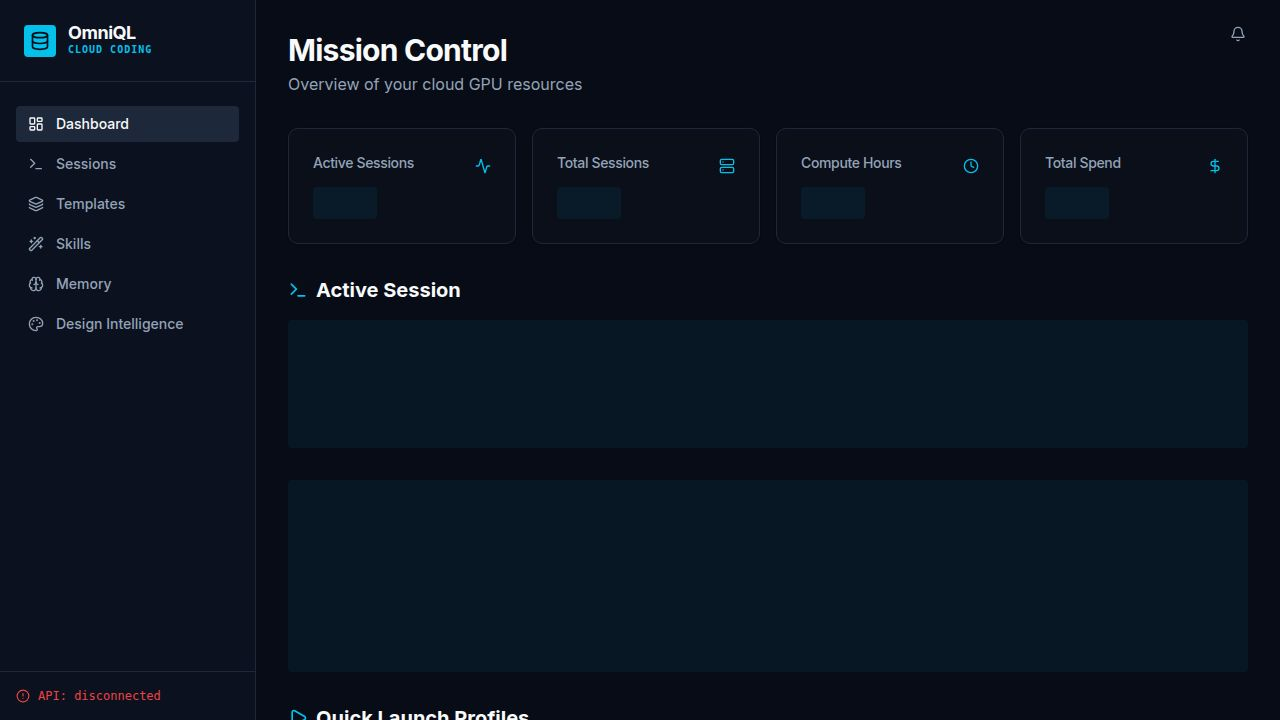
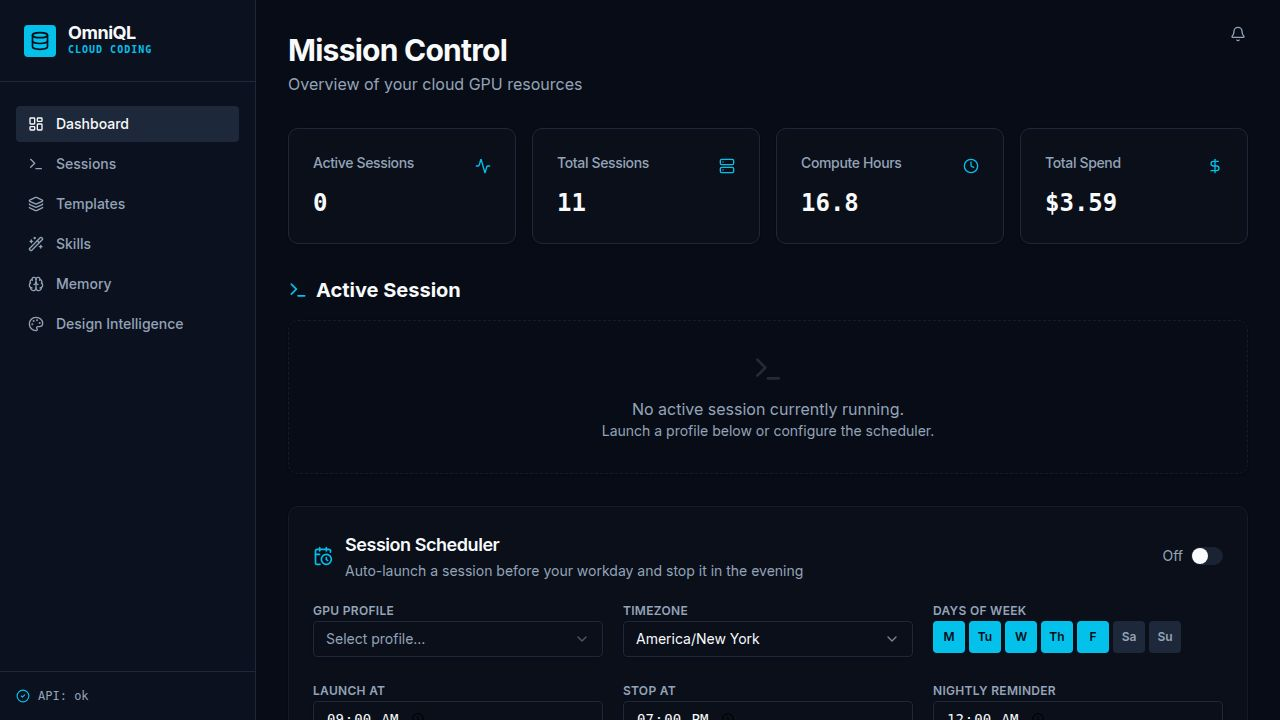
Task #119: Surface design context in the Skills panel
Added a "Design Context" collapsible sub-panel to the SmartSkillsTab in the session
cockpit. Developers can now see which design intelligence entries (color palettes,
typography rules, UX guidelines, etc.) were injected at session activation time.

## Changes

### DB schema (lib/db/src/schema/skills.ts)
- Added `designContextJson` (nullable jsonb) to `sessionSkillsTable` to persist the
  design context entries at activation time.

### DB migration (lib/db/migrations/0010_session_skills_design_context.sql)
- `ALTER TABLE session_skills ADD COLUMN IF NOT EXISTS design_context_json jsonb`
- Migration was applied via `drizzle-kit push` ✓

### API server (artifacts/api-server/src/services/skills-bundler.ts)
- Updated `recordSessionActivation` to write `compiled.designContext` into the new
  `designContextJson` column (null when no design context was injected).

### API route (artifacts/api-server/src/routes/skills.ts)
- `GET /sessions/:sessionId/skills` now reads `designContextJson` from the latest
  activation record and returns it as `designContext` in the response body.

### API client types (lib/api-client-react/src/generated/api.schemas.ts)
- Added `DesignContextEntry` interface (category, name, data, tags).
- Extended `SessionSkillsResponse` with optional `designContext?: DesignContextEntry[] | null`.
- Rebuilt package type declarations.

### Dashboard UI (artifacts/dashboard/src/pages/sessions/[id].tsx)
- Added `Palette` icon import from lucide-react.
[…]

diff --git a/artifacts/dashboard/src/pages/sessions/[id].tsx b/artifacts/dashboard/src/pages/sessions/[id].tsx
@@ -29,7 +29,7 @@ import { useQueryClient, useQuery } from "@tanstack/react-query";
 import { format, formatDistanceToNow } from "date-fns";
 import {
   Terminal, Clock, DollarSign, RefreshCw, StopCircle, HardDrive, ExternalLink, ArrowLeft, Brain, ChevronDown, ChevronRight, Radio, Search, X, AlertTriangle, RotateCcw, Users, Copy, Check, Eye, EyeOff, FolderOpen,
-  Wand2, ThumbsUp, ThumbsDown, Wrench, GitBranch, Loader2, CheckCircle2, XCircle, AlertCircle, DatabaseZap, Network, Target, Pencil,
+  Wand2, ThumbsUp, ThumbsDown, Wrench, GitBranch, Loader2, CheckCircle2, XCircle, AlertCircle, DatabaseZap, Network, Target, Pencil, Palette,
   Bell, BellOff, BellRing, MonitorSmartphone,
   // RotateCcw was used by the legacy disk-full retry button; the new BootTimeline owns that CTA.
 } from "lucide-react";
@@ -781,6 +781,7 @@ function SmartSkillsTab({ sessionId, taskMode }: { sessionId: number; taskMode?:
   const [votedSkills, setVotedSkills] = useState<Record<string | number, "up" | "down">>({});
   const [expandedSkills, setExpandedSkills] = useState<Set<string | number>>(new Set());
   const [comingSoonOpen, setComingSoonOpen] = useState(false);
+  const [designContextExpanded, setDesignContextExpanded] = useState(false);
 
   if (isLoading) {
     return (
@@ -793,6 +794,9 @@ function SmartSkillsTab({ sessionId, taskMode }: { sessionId: number; taskMode?:
   const latestActivation = data?.activations?.[0] ?? null;
   const activeBundle = data?.activeBundle ?? null;
   const manifests = (data?.activeManifests ?? []) as ManifestItem[];
+  const designContext = data?.designContext ?? null;
+  const tokenMode = latestActivation?.tokenMode ?? null;
+  const showDesignContext = designContext && designContext.length > 0 && tokenMode !== "lean" && tokenMode !== "ultra";
 
   if (!latestActivation && manifests.length === 0) {
     return (
@@ -991,6 +995,54 @@ function SmartSkillsTab({ sessionId, taskMode }: { sessionId: number; taskMode?:
           );
         })}
       </div>
+
+      {/* Design Context sub-panel */}
+      {showDesignContext && (
+        <Card className="bg-card/50 border-border/50">
+          <button
+            onClick={() => setDesignContextExpanded(prev => !prev)}
+            className="w-full px-4 py-3 text-left flex items-center justify-between gap-2 hover:bg-secondary/20 transition-colors rounded-t-lg"
+          >
+            <div className="flex items-center gap-2">
+              <Palette className="w-4 h-4 text-primary" />
+              <span className="font-semibold text-sm">Design Context</span>
+              <Badge variant="outline" className="text-[10px] bg-primary/10 text-primary border-primary/20">
+                {designContext!.length} {designContext!.length === 1 ? "entry" : "entries"}
+              </Badge>
+            </div>
+            {designContextExpanded ? <ChevronDown className="w-3.5 h-3.5 text-muted-foreground shrink-0" /> : <ChevronRight className="w-3.5 h-3.5 text-muted-foreground shrink-0" />}
+          </button>
+          {designContextExpanded && (
+            <CardContent className="pt-0 pb-4">
+              <div className="border-t border-border/40 pt-3 space-y-2">
+                {designContext!.map((entry, i) => {
+                  const dataEntries = Object.entries(entry.data).filter(([, v]) => v && v.trim().length > 0);
+                  return (
+                    <div key={i} className="rounded border border-border/40 bg-secondary/20 p-2.5 text-xs space-y-1">
+                      <div className="flex items-center gap-2 flex-wrap">
+                        <Badge variant="outline" className="text-[10px] capitalize bg-violet-500/10 text-violet-400 border-violet-500/20">
+                          {entry.category}
+                        </Badge>
+                        <span className="font-medium text-foreground/90">{entry.name}</span>
+                      </div>
+                      {dataEntries.length > 0 && (
+                        <ul className="space-y-0.5 mt-1">
+                          {dataEntries.map(([k, v]) => (
+                            <li key={k} className="flex items-start gap-1.5 text-muted-foreground">
+                              <span className="text-primary/60 shrink-0">{k}:</span>
+                              <span className="text-foreground/70 break-all">{v}</span>
+                            </li>
+                          ))}
+                        </ul>
+                      )}
+                    </div>
+                  );
+                })}
+              </div>
+            </CardContent>
+          )}
+        </Card>
+      )}
 
       {/* Coming soon sheet */}
       <Sheet open={comingSoonOpen} onOpenChange={setComingSoonOpen}>

diff --git a/artifacts/api-server/src/routes/skills.ts b/artifacts/api-server/src/routes/skills.ts
@@ -972,7 +972,10 @@ router.get("/sessions/:sessionId/skills", async (req, res) => {
   // Active skill manifests from the latest activation
   const activeManifests = (latest?.activatedSkillsJson as unknown as Array<{ id: string }>) || [];
 
-  res.json({ activations, activeBundle, activeManifests });
+  // Design context entries injected at activation time (null for lean/ultra or old records)
+  const designContext = (latest?.designContextJson as unknown as Array<{ category: string; name: string; data: Record<string, string>; tags: string[] }> | null) ?? null;
+
+  res.json({ activations, activeBundle, activeManifests, designContext });
 });
 
 router.post("/sessions/:sessionId/skills/feedback", async (req, res) => {

diff --git a/artifacts/api-server/src/services/skills-bundler.ts b/artifacts/api-server/src/services/skills-bundler.ts
@@ -452,6 +452,7 @@ export async function recordSessionActivation(sessionId: number, compiled: Compi
     bundleId: compiled.bundleId,
     activatedSkillsJson: compiled.skills as unknown as Record<string, unknown>[],
     rationaleJson: compiled.reasoning as unknown as Record<string, unknown>,
+    designContextJson: compiled.designContext ? (compiled.designContext as unknown as Record<string, unknown>[]) : null,
     tokenMode,
     activationMode: "boot",
   });

diff --git a/lib/db/src/schema/skills.ts b/lib/db/src/schema/skills.ts
@@ -61,6 +61,7 @@ export const sessionSkillsTable = pgTable("session_skills", {
   bundleId: integer("bundle_id").references(() => skillBundlesTable.id),
   activatedSkillsJson: jsonb("activated_skills_json").notNull(),
   rationaleJson: jsonb("rationale_json"),
+  designContextJson: jsonb("design_context_json"),
   tokenMode: text("token_mode").notNull().default("core"),
   activationMode: text("activation_mode").notNull().default("boot"),
   activatedAt: timestamp("activated_at").notNull().defaultNow(),